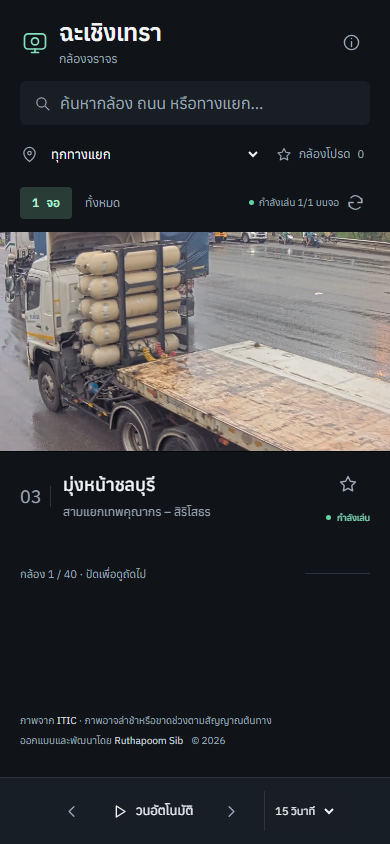
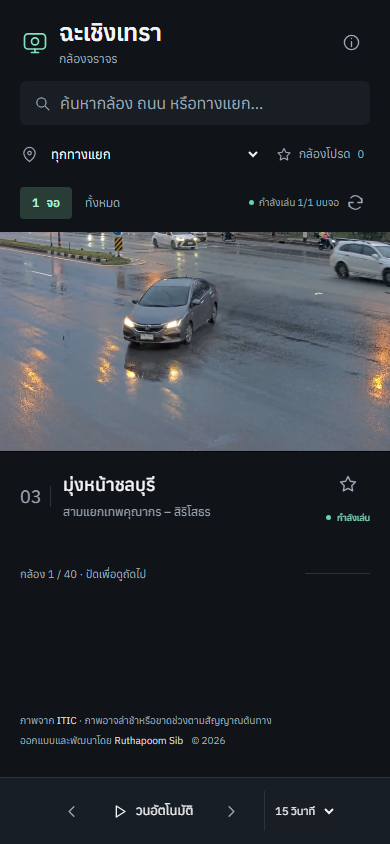
feat: update validation report and improve buffering state handling in player

Changed region(s): [[0.0, 0.2773, 1.0, 0.5545]]

diff --git a/scripts/player.js b/scripts/player.js
@@ -2,11 +2,11 @@
 (() => {
   'use strict';
   const MESSAGES = {
-    connecting: 'กำลังเชื่อมต่อภาพสด…', live: '', buffering: 'ภาพสะดุด กำลังเชื่อมต่อ…',
-    blocked: 'แตะเพื่อเล่นภาพสด', offline: 'ยังรับภาพไม่ได้ · จะลองใหม่อัตโนมัติ',
+    connecting: '', live: '', buffering: '',
+    blocked: 'แตะเพื่อเล่นภาพสด', offline: '',
     unsupported: 'อุปกรณ์นี้ไม่รองรับการเล่นภาพสด', paused: 'พักการเชื่อมต่อ',
   };
-  const LABELS = { connecting: 'กำลังเชื่อมต่อ', live: 'กำลังเล่น', buffering: 'ภาพสะดุด', blocked: 'แตะเพื่อเล่น', offline: 'ไม่มีสัญญาณ', unsupported: 'ไม่รองรับ', paused: 'พักการเชื่อมต่อ' };
+  const LABELS = { connecting: 'กำลังเชื่อมต่อ', live: 'กำลังเล่น', buffering: 'รอภาพ', blocked: 'แตะเพื่อเล่น', offline: 'สัญญาณขัดข้อง', unsupported: 'ไม่รองรับ', paused: 'พักการเชื่อมต่อ' };
   function create(tile, cam, { mode, src, onState = () => {}, Hls = globalThis.Hls, debug = false } = {}) {
     const video = tile.querySelector('video');
     let hls = null, destroyed = false, generation = 0, failures = 0;
@@ -22,11 +22,19 @@
       onState();
     }
     function clearDeadline() { clearTimeout(deadline); deadline = null; }
+    function recordProgress() {
+      if (destroyed || video.paused || !['live', 'buffering'].includes(tile.dataset.state) || video.currentTime <= lastTime) return;
+      lastTime = video.currentTime; lastProgress = Date.now();
+      // A stalled download can resume playback without another playing event.
+      // Cancel its deadline as soon as the media clock advances again.
+      clearDeadline(); failures = 0;
+      if (tile.dataset.state === 'buffering') set('live');
+    }
     function release() {
       generation++;
       clearTimeout(retryTimer); retryTimer = null;
       clearDeadline();
-      video.onplaying = video.onended = video.onerror = video.onwaiting = video.onstalled = video.onpause = null;
+      video.onplaying = video.onended = video.onerror = video.onwaiting = video.onstalled = video.onpause = video.ontimeupdate = null;
       if (hls) { hls.destroy(); hls = null; }
       video.pause();
       video.removeAttribute('src');
@@ -61,7 +69,8 @@
       lastTime = -1; lastProgress = Date.now();
       set('connecting');
       if (mode === 'none' || (mode === 'hls' && !Hls)) { set('unsupported'); return; }
-      video.onplaying = () => { if (destroyed) return; failures = 0; clearDeadline(); lastProgress = Date.now(); set('live'); };
+      video.onplaying = () => { if (destroyed) return; failures = 0; clearDeadline(); lastTime = video.currentTime; lastProgress = Date.now(); set('live'); };
+      video.ontimeupdate = recordProgress;
       video.onwaiting = video.onstalled = () => {
         if (destroyed || tile.dataset.state === 'blocked') return;
         if (tile.dataset.state === 'live') set('buffering');
@@ -94,8 +103,8 @@
     }
     const watchdog = setInterval(() => {
       if (destroyed || document.hidden || !['live', 'buffering'].includes(tile.dataset.state)) return;
-      if (video.currentTime !== lastTime) { lastTime = video.currentTime; lastProgress = Date.now(); }
-      else if (Date.now() - lastProgress >= 15000) retry(3000);
+      recordProgress();
+      if (Date.now() - lastProgress >= 15000) retry(3000);
     }, 5000);
     if (debug) {
       const seen = [];

diff --git a/styles.css b/styles.css
@@ -129,10 +129,9 @@ input::-webkit-search-cancel-button { display: none; }
 .tile[data-state=live] .lamp { background: var(--green); }
 .tile[data-state=live] .camera-state { color: var(--accent); }
 .tile[data-state=connecting] .lamp, .tile[data-state=buffering] .lamp, .tile[data-state=blocked] .lamp { background: var(--amber); }
-.tile[data-state=connecting] .lamp { animation: pulse 1.4s ease-in-out infinite; }
 .tile[data-state=offline] .lamp, .tile[data-state=unsupported] .lamp { background: var(--red); }
 .tile[data-state=offline] .camera-state, .tile[data-state=unsupported] .camera-state { color: var(--red); }
-.tile[data-state=blocked] .msg, .tile[data-state=buffering] .msg { background: #080c10a6; color: var(--text); }
+.tile[data-state=blocked] .msg { background: #080c10a6; color: var(--text); }
 .tile[data-state=blocked] .camera-open { cursor: pointer; }
 .grid.has-focus { grid-template-columns: minmax(0, 1fr); grid-template-rows: minmax(0, 1fr); }
 .grid.has-focus .tile:not(.focused) { display: none; }

diff --git a/docs/reviews/2026-09-27-readiness.md b/docs/reviews/2026-09-27-readiness.md
@@ -2,7 +2,19 @@
 
 Date: 2026-09-27. Scope: the local working tree, before any production deployment.
 
-## Final visual-pass validation
+## Resumed-work final verification
+
+Rechecked the pending quiet-buffering changes on 2026-09-27: `npm run check` passed all 16 Node tests; `npm run test:browser` passed all 40 Chromium checks; `git diff --check` passed. The live run at 11:04:37 UTC (18:04:37 Bangkok) confirmed all four desktop cameras advancing with no uncaught page errors. Reviewed the refreshed desktop and phone screenshots and rebuilt the nine-file `dist/` package with `npm run build`. Local follow-up is complete; production deployment and physical-device validation remain unverified.
+
+## Quiet buffering update
+
+Approved follow-up: transient buffering now uses a steady amber dot and “รอภาพ” in the caption. Connecting, buffering and offline states no longer put text over the footage; buffering no longer dims it. Persistent failures use “สัญญาณขัดข้อง” below the image and continue automatic retries. The autoplay permission prompt remains available over the image when a tap is required.
+
+Reproduced a stale recovery deadline: after a stalled event, video time could advance without a new playing event, leaving the buffering state and deadline active. Media-time updates and the watchdog now clear that deadline when unpaused video advances. Frozen video still times out and retries; player disposal clears the additional event handler. This prevents the reproduced unnecessary reconnect, but does not eliminate interruptions at the public stream source.
+
+Verification after this change: 16 Node tests and 40 Chromium checks pass, including unobscured buffering, recovery without another playing event, persistent freeze/retry and cleanup. Live smoke test at 10:57:18 UTC (17:57:18 Bangkok) recorded all four desktop videos advancing with zero uncaught page errors. Rebuilt the nine-file deployment package successfully. Not deployed.
+
+## Earlier visual-pass validation
 
 Revalidated the latest `index.html` and `styles.css` after the second visual pass on 2026-09-27. The syntax checks and all 12 Node tests pass; all 39 Chromium checks pass with zero uncaught page errors. The live run completed at 10:49:55 UTC (17:49:55 Bangkok): all four desktop cameras (03, 05, 06, 01) were live with advancing video time and no uncaught page errors.
 
@@ -22,8 +34,8 @@ Local implementation and packaging are complete. Production deployment and physi
 
 | Check | Result |
 |---|---|
-| `npm run check` | Pass: JavaScript syntax checks and 12 Node regression tests |
-| `npm run test:browser` | Pass: 39 Chromium checks, zero uncaught page errors |
+| `npm run check` | Pass: JavaScript syntax checks and 16 Node regression tests |
+| `npm run test:browser` | Pass: 40 Chromium checks, zero uncaught page errors |
 | `npm run test:live` | Pass: actual ITIC video time advances; see timestamped JSON below |
 | `npm run build` | Pass: nine allowlisted files in `dist/` |
 | Rebuild with stale output | Pass: stale fixture removed; resulting application matches source |
